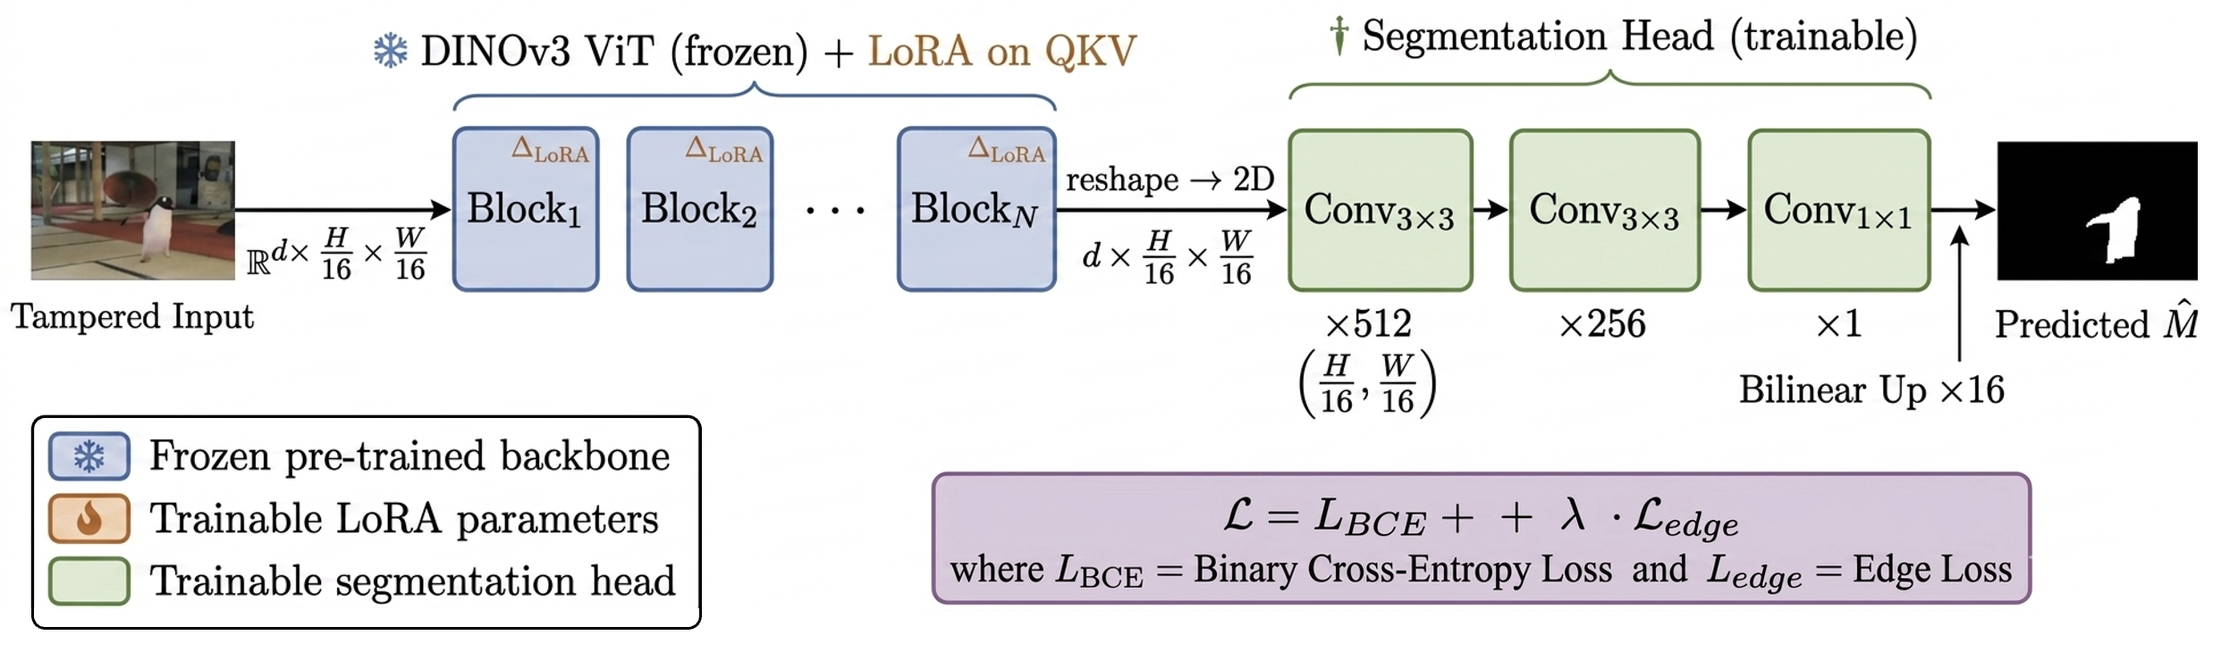
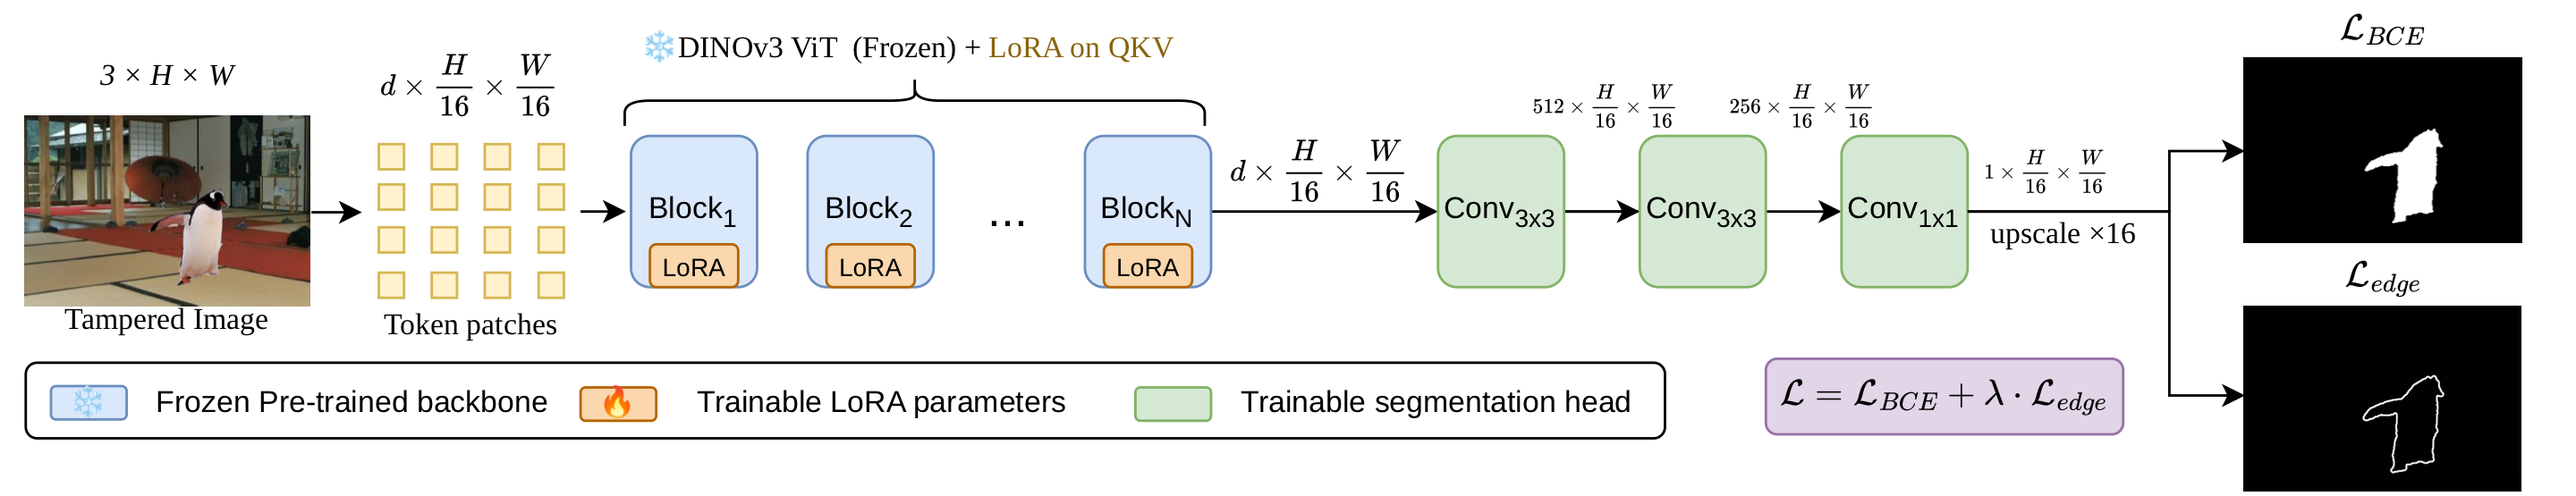
Update README: new title, paper results tables, replace architecture figure

diff --git a/README.md b/README.md
@@ -1,4 +1,4 @@
-# DINOv3 Beats Specialized Detectors: A Simple Foundation Model Baseline for Image Forensics
+# Forensics Without Forensic Design: DINOv3 as a Strong Baseline for Image Manipulation Localization
 
 [![License: MIT](https://img.shields.io/badge/License-MIT-yellow.svg)](LICENSE)
 [![Python 3.8+](https://img.shields.io/badge/python-3.8+-blue.svg)](https://www.python.org/)
@@ -26,7 +26,7 @@
 ## Architecture
 
 <p align="center">
-  <img src="assets/architecture.png" width="700" alt="Architecture diagram"/>
+  <img src="assets/architecture.png" width="800" alt="Architecture diagram"/>
 </p>
 
 The backbone (DINOv3 ViT, frozen) extracts patch-level features via `get_intermediate_layers`. LoRA matrices injected into every QKV projection allow task-specific attention adaptation with minimal parameters. A lightweight 3-conv segmentation head (Conv→BN→ReLU ×2, then Conv1×1) predicts the pixel-level manipulation mask, upsampled to input resolution via bilinear interpolation.
@@ -38,34 +38,30 @@ The backbone (DINOv3 ViT, frozen) extracts patch-level features via `get_interme
 ### CAT-Net Protocol (4-dataset avg pixel-F1)
 *Training: CASIA-v2 + FantasticReality + IMD2020 + TampCOCO. Test: CASIAv1 / Columbia / NIST16 / Coverage.*
 
-| Method | Params | CASIAv1 | Columbia | NIST16 | Coverage | **Avg F1** |
-|---|---|---|---|---|---|---|
-| PSCC-Net | 3.7 M | — | — | — | — | 0.577 |
-| Mesorch (AAAI'25) | 85.8 M | — | — | — | — | 0.677 |
-| CAT-Net | 116.7 M | — | — | — | — | 0.601 |
-| MVSS-Net | 150.5 M | — | — | — | — | 0.536 |
-| **Ours ViT-S LoRA r=32** | 1.4 M | 0.787 | 0.923 | 0.462 | 0.646 | **0.704** |
-| **Ours ViT-B LoRA r=64** | 5.7 M | 0.840 | 0.938 | 0.565 | 0.715 | **0.780** |
-| **Ours ViT-L LoRA r=32** | 9.0 M | 0.907 | 0.941 | 0.636 | 0.905 | **0.847** |
-| **Ours ViT-L LoRA r=64** | 12.2 M | 0.908 | 0.927 | 0.633 | 0.882 | **0.837** |
+| Method | CASIAv1 | Columbia | NIST16 | Coverage | **Avg F1** |
+|---|---|---|---|---|---|
+| PSCC-Net | — | — | — | — | 0.577 |
+| CAT-Net | — | — | — | — | 0.601 |
+| MVSS-Net | — | — | — | — | 0.536 |
+| TruFor | — | — | — | — | 0.627 |
+| Mesorch (AAAI'25) | — | — | — | — | 0.677 |
+| **Ours ViT-S LoRA r=32** | 0.787 | 0.923 | 0.462 | 0.646 | **0.704** |
+| **Ours ViT-B LoRA r=64** | 0.863 | 0.904 | 0.570 | 0.784 | **0.780** |
+| **Ours ViT-L LoRA r=32** | **0.907** | **0.941** | **0.636** | **0.905** | **0.847** |
 
 ### MVSS-Net Protocol (5-dataset avg pixel-F1)
 *Training: CASIA-v2 only (5,123 images). Test: CASIAv1 / Columbia / NIST16 / Coverage / IMD2020.*
 
 | Method | CASIAv1 | Columbia | NIST16 | Coverage | IMD2020 | **Avg F1** |
 |---|---|---|---|---|---|---|
+| MVSS-Net | — | — | — | — | — | 0.341 |
+| CAT-Net | — | — | — | — | — | 0.401 |
+| IML-ViT | — | — | — | — | — | 0.519 |
+| TruFor | — | — | — | — | — | 0.530 |
+| **Ours ViT-S LoRA r=32** | 0.622 | 0.646 | 0.324 | 0.363 | 0.346 | **0.460** |
+| **Ours ViT-B LoRA r=64** | 0.761 | 0.820 | 0.465 | 0.545 | 0.475 | **0.613** |
 | **Ours ViT-L LoRA r=32** | 0.867 | 0.943 | 0.589 | 0.822 | 0.628 | **0.770** |
-| **Ours ViT-L LoRA r=64** | 0.873 | 0.915 | 0.621 | 0.820 | 0.641 | **0.774** |
-| FullFT ViT-L *(collapse)* | 0.852 | 0.842 | 0.532 | 0.679 | 0.499 | *0.681* |
-| FullFT ViT-S *(collapse)* | 0.209 | 0.364 | 0.189 | 0.154 | 0.186 | *0.221* |
-
-> FullFT converges to trivial all-zero predictions early in training on small datasets — see `assets/fullft_collapse_curves.png`. LoRA avoids this via low-rank regularization.
-
-### Parameter Efficiency
-
-<p align="center">
-  <img src="assets/param_efficiency_cat.png" width="600" alt="Parameter efficiency"/>
-</p>
+| **Ours ViT-L LoRA r=64** | **0.873** | 0.915 | **0.621** | 0.820 | **0.641** | **0.774** |
 
 ---
 
@@ -188,7 +184,7 @@ model = DINOv3ForensicsLoRA.from_pretrained(
 
 ```bibtex
 @article{dinov3iml2026,
-  title   = {DINOv3 Beats Specialized Detectors: A Simple Foundation Model Baseline for Image Forensics},
+  title   = {Forensics Without Forensic Design: DINOv3 as a Strong Baseline for Image Manipulation Localization},
   author  = {[Authors]},
   journal = {[Venue]},
   year    = {2026},
